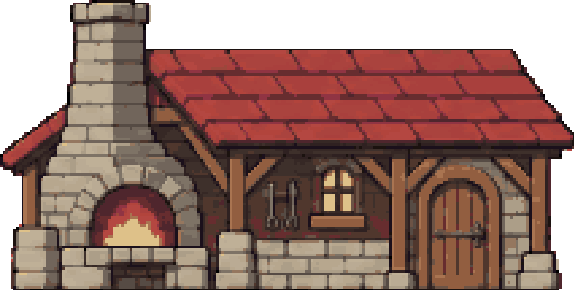
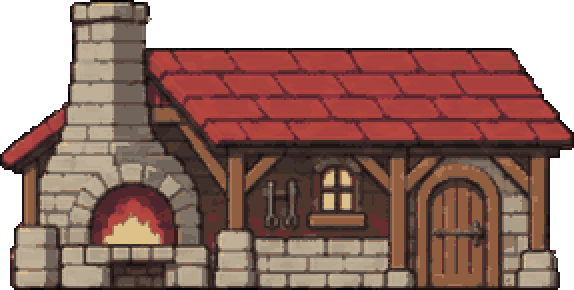
Town: the 1.35x buildings, fountain and bushes rebuilt on the 2-px grid
tools/art_loop/rescale_dot.py reads each 1x original at its native resolution, resamples it 1.35x, snaps every
pixel back to the original's palette, cleans it and doubles it: same design and size as before (doors, climb tops,
the hall's window glow and the forge's hearth still line up), no more 2-3 px pixels. Rim maps and the furnace
rebaked from the new art.

Claude-Session: https://claude.ai/code/session_01FzDataYedfiK9tzFLcKdoU

Changed region(s): [[0.0, 0.0, 1.0, 1.0], [0.0, 0.4966, 0.0592, 0.5897]]

diff --git a/tools/art_loop/rescale_dot.py b/tools/art_loop/rescale_dot.py
@@ -1,0 +1,69 @@
+#!/usr/bin/env python3
+"""Rebuild the town's 1.35x sprites on the 2-px grid (owner 2026-11-06: the blown-up buildings broke into 2-3 px
+pixels). The 1x originals sit on the 2-px grid; each is read at its native resolution (one value per 2x2 block),
+resampled 1.35x (Lanczos on premultiplied colour), every pixel snapped back to the original's own palette, cleaned
+(refine_dot), and doubled -> assets/town/hx/<k>.png at the old hx size. Same design, same size, so door positions,
+climb tops and effect boxes still line up.
+  python3 tools/art_loop/rescale_dot.py [names...]     (default: every BIGK sprite)"""
+import os
+import subprocess
+import sys
+import numpy as np
+from PIL import Image
+
+ROOT = os.path.dirname(os.path.dirname(os.path.dirname(os.path.abspath(__file__))))
+BS = 1.35
+DEFAULT = ["g_store", "g_tentR", "g_barn", "g_cottage", "g_well", "g_forge", "g_anvil", "g_kiln", "g_hall",
+           "g_hall_win", "q_fountain", "f_bush1", "f_bush2", "f_bush3"]
+
+
+def offset(a):
+    best = (0, 0, -1)
+    for oy in (0, 1):
+        for ox in (0, 1):
+            b = a[oy:, ox:]
+            h, w = (b.shape[0] // 2) * 2, (b.shape[1] // 2) * 2
+            r = b[:h, :w].reshape(h // 2, 2, w // 2, 2, 4)
+            same = (r == r[:, :1, :, :1]).all(axis=(1, 3, 4))
+            op = r[:, 0, :, 0, 3] > 127
+            f = same[op].mean() if op.any() else 0
+            if f > best[2]: best = (oy, ox, f)
+    return best[:2]
+
+
+def one(k):
+    src = os.path.join(ROOT, "assets/town", k + ".png")
+    a = np.array(Image.open(src).convert("RGBA"))
+    oy, ox = offset(a)
+    nat = a[oy::2, ox::2]
+    hxp = os.path.join(ROOT, "assets/town/hx", k + ".png")
+    if os.path.exists(hxp):
+        hw, hh = Image.open(hxp).size
+    else:
+        hw, hh = round(a.shape[1] * BS), round(a.shape[0] * BS)
+    W, H = max(1, round(hw / 2)), max(1, round(hh / 2))
+    soft = ((a[..., 3] > 0) & (a[..., 3] < 255)).mean() > 0.02          # a glow layer (g_hall_win): keep its alpha
+    f = nat.astype(float)
+    al = f[..., 3:] / 255
+    up = np.array(Image.fromarray(np.uint8(np.clip(f[..., :3] * al, 0, 255))).resize((W, H), Image.LANCZOS)).astype(float)
+    ua = np.array(Image.fromarray(nat[..., 3]).resize((W, H), Image.LANCZOS)).astype(float) / 255
+    col = up / np.maximum(ua[..., None], 1e-3)
+    op = ua > (0.02 if soft else 0.5)
+    pal = np.unique(nat[nat[..., 3] > 127][:, :3], axis=0).astype(float)
+    out = np.zeros((H, W, 4), np.uint8)
+    for y0 in range(0, H, 64):                                           # nearest palette colour, in strips
+        c = col[y0:y0 + 64]
+        d = ((c[:, :, None, :] - pal[None, None]) ** 2).sum(-1)
+        out[y0:y0 + 64, :, :3] = pal[d.argmin(-1)].astype(np.uint8)
+    out[..., 3] = np.where(op, np.clip(ua * 255, 0, 255) if soft else 255, 0).astype(np.uint8)
+    tmp = os.path.join(ROOT, "assets/town/hx", f".{k}_nat.png")
+    Image.fromarray(out).save(tmp)
+    if not soft:
+        subprocess.run([sys.executable, os.path.join(ROOT, "tools/art_loop/refine_dot.py"), tmp], check=True, capture_output=True)
+    im = Image.open(tmp)
+    im.resize((W * 2, H * 2), Image.NEAREST).save(hxp)
+    os.remove(tmp)
+    print(k, "native", (W, H), "->", (W * 2, H * 2), "(was", (hw, hh), ")", "glow" if soft else "")
+
+
+for k in (sys.argv[1:] or DEFAULT): one(k)

diff --git a/docs/work/town-art/MEMO.md b/docs/work/town-art/MEMO.md
@@ -32,3 +32,4 @@
 - 2026-11-06: "오케이 그럼 따로 묻지말고 이행해줘" → 순서: 마차·가로등 교체 → 지면 타일 2px 정리 → 나무 → 건물 → 말·훈련장 울타리
 - 2026-11-06: "이걸로 돌길이나 돌 장식도 깔 수 있는 거 아님? 풀은 무시하고" → 적용: 맵 장면의 자갈 조각으로 k_stone(2px) 만들어 본관 앞·아래 광장(HDOOR±420)을 돌길로, 바위·자갈 조각(f2_rock/f2_pebble)을 몇 곳에
 - 2026-11-06 → 적용: 나무 새로(오크·둥근·어린·포플러 + 큰 나무, 훈련장 나무 2종) 도트 생성 → 실제 크기 절반 축소·정리 → 2배(2px), 잎 흔들림 다시 굽기. 큰 나무·훈련장 나무는 1.35배 확대 목록에서 뺌. 덤불은 오너가 예전 것을 선호해서 유지
+- 2026-11-06 → 적용: 건물(창고·천막·헛간·오두막·우물·대장간·모루·숯가마·본관+창문빛)·분수·덤불의 1.35배본을 디자인 그대로 2px 격자로 다시 만듦(tools/art_loop/rescale_dot.py: 원본을 2px 단위로 읽어 1.35배 재표본→원본 팔레트로 맞춤→정리→2배). 크기·문 위치·이펙트 위치 그대로. 테두리빛(rim)·용광로 다시 굽기
